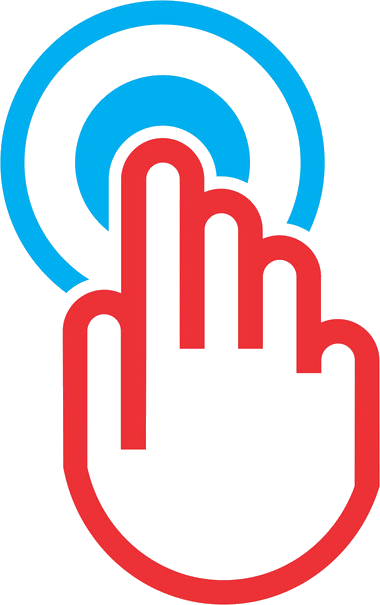
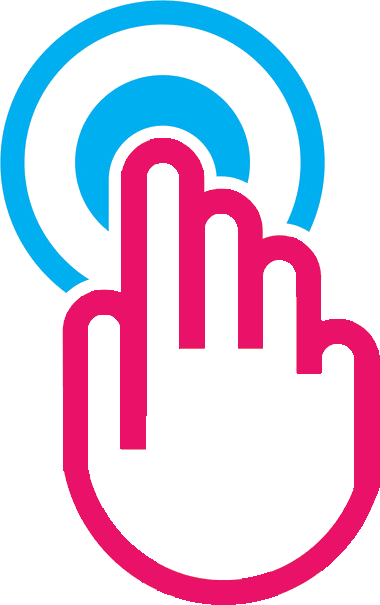
Add files via upload

Changed region(s): [[0.1447, 0.2083, 1.0, 1.0]]

diff --git a/index.html b/index.html
@@ -6,47 +6,44 @@
     <meta name="viewport" content="width=device-width, initial-scale=1.0" />
     <title>start</title>
     <link rel="stylesheet" href="f1.css" />
-    <style></style>
+    <style>
+
+   
+    </style>
   </head>
 
   <body id="body_id">
-    <div class="logo">logo</div>
+    <div >
+      <img class="logo" src="./images/menu logo ocn-01.png" alt="" srcset="" />
     
+      
+    </div>
 
     <div class="heart-shape"></div>
-   
-          <div>
-            <p id="lan-elem" class="language-box">
-              Choose Language <br /><br />
-              اختر اللغة
-            </p>
-          </div>
-     
-    
-          <div class="box">
-            <div id="arab" class="arabbtn">
-              <a
-                style="text-decoration: none"
-                href="./arab version/الصفحةالأؤلى.html"
-                ><p class="mainbtnitem">العربية</p></a
-              >
-            </div>
 
-            <div id="eng" class="engbtn">
-              <a style="text-decoration: none" href="./eng version/home.html"
-                ><p class="mainbtnitem">English</p></a
-              >
-            </div>
-            <div id="start" class="startbtn">
-              <img
-                class="click-image"
-                src="./images/click.png"
-                alt=""
-                srcset=""
-              />
-            </div>
-          </div>
-      
+    <div>
+      <p id="lan-elem" class="language-box">
+        Choose Language <br /><br />
+        اختر اللغة
+      </p>
+    </div>
+
+    <div class="box">
+      <div id="arab" class="arabbtn">
+        <a style="text-decoration: none" href="./arab version/الصفحةالأؤلى.html"
+          ><p class="mainbtnitem">العربية</p></a
+        >
+      </div>
+
+      <div id="eng" class="engbtn">
+        <a style="text-decoration: none" href="./eng version/home.html"
+          ><p class="mainbtnitem">English</p></a
+        >
+      </div>
+      <div id="start" class="startbtn">
+        <img class="click-image" src="./images/click.png" alt="" srcset="" />
+      </div>
+    </div>
 
     <div class="center">
       <div class="heart"></div>

diff --git a/eng version/nursing_services.css b/eng version/nursing_services.css
@@ -7,10 +7,10 @@ body {
   padding-top: 20px;
 } */
 .logo {
-  background-color: wheat;
-  height: 50px;
-  width: 50px;
-  color: black;
+  background-color: transparent;
+  height: 60px;
+  width: 60px;
+  color: transparent;
   text-align: center;
 }
 .language {
@@ -18,10 +18,21 @@ body {
   right: 10px;
   top: 5px;
   background-color: transparent;
-  height: 50px;
+  border-color: #e91268;
+  border-style: dotted;
+  height: 30px;
   width: 50px;
   color: black;
   text-align: center;
+  border-radius: 15px;
+  border-width: 2px;
+}
+.lang_txt_style{
+  margin-top: 5px;
+  color: #e91268;
+  font-size: 15px
+  
+  
 }
 .one {
   position: absolute;
@@ -147,7 +158,8 @@ body {
   height: 100px;
   width: 100px;
   border-style: dotted;
-  border-color: rgb(0, 123, 255);
+  border-width: 2px;
+  border-color: #e91268;
   transition-property: margin-top, top;
   transition-duration: 0.4s;
   box-shadow: 3px 3px 5px 2px rgba(0, 0, 0, 0.347);
@@ -155,44 +167,17 @@ body {
 
 .start_btn_animate {
   top: 10px;
-  margin-top: -100px;
+  margin-top: -120px;
 }
 .txt_show {
   margin-top: 40px;
   font-size: 20px;
-  color: rgb(0, 123, 255);
+  color: #e91268;
   transition-property: margin-top;
   transition-duration: 0.2s;
 }
 
 .txt_animated_show {
-  margin-top: 60px;
-}
-.toggle_eng {
-  background-color: pink;
-  height: 40px;
-  width: 50px;
-  position: absolute;
-  right: 50px;
-  top: 0px;
-  border-top-left-radius: 20px;
-  border-bottom-left-radius: 20px;
-  border-style: dotted;
+  margin-top: 65px;
 }
 
-.toggle_arab {
-  background-color:white;
-  height: 40px;
-  width: 50px;
-  position: absolute;
-  right: 0px;
-  top: 0px;
-  border-top-right-radius: 20px;
-  border-bottom-right-radius: 20px;
-  border-style: dotted;
-  border-color: rgb(0, 123, 255);
-}
-.lang_txt{
-  margin-top: 11px;
-  color: rgb(0, 123, 255);
-}

diff --git a/eng version/style.css b/eng version/style.css
@@ -1,6 +1,3 @@
-
-
-
 .container_box {
   margin-top: 20px;
   background-color: transparent;
@@ -14,25 +11,18 @@
   height: 200px;
   width: 350px;
   background-color: white;
+  border-color: #e91268;
   border-radius: 40px;
+  border-style: dotted;
   box-shadow: 3px 3px 5px 2px rgba(0, 0, 0, 0.347);
-}
+  border-width: 1px;
 
-.medical_equipment_box {
-  display: inline-block;
-  margin-top: 20px;
-  height: 200px;
-  width: 350px;
-  background-color: white;
-  border-radius: 40px;
-  box-shadow: 3px 3px 5px 2px rgba(0, 0, 0, 0.347);
 }
-
 
 .logo {
-  background-color: black;
-  height: 50px;
-  width: 50px;
+  background-color: transparent;
+  height: 60px;
+  width: 60px;
   color: white;
   text-align: center;
 }
@@ -40,7 +30,7 @@
   float: left;
   margin-left: 30px;
   margin-top: 10px;
-  color: rgb(7, 125, 250);
+  color: #e91268;
 }
 img {
   width: 350px;
@@ -56,24 +46,22 @@ img {
   background-color: white;
   margin-right: 20px;
   margin-top: 5px;
-color: white;
+  color: white;
   border-radius: 50px;
-  border-color: rgb(7, 125, 250);
+  border-width: 2px;
+  border-color: #e91268;
   box-shadow: 3px 3px 5px 2px rgba(0, 0, 0, 0.347);
   border-style: dotted;
-
 }
-.expore_txt{
-color: rgb(7, 125, 250);
-margin-top: 3px;
+.expore_txt {
+  color: #e91268;
+  margin-top: 3px;
 }
 
 @media screen and (min-width: 820px) {
-
-  
   .medical_equipment_box {
     background-color: white;
-    
+
     height: 400px;
   }
   .nurse_box {
@@ -85,7 +73,7 @@ margin-top: 3px;
   .medical_equipment_box {
     margin-left: 0px;
   }
-  .nurse_box{
+  .nurse_box {
     margin-top: 20px;
   }
 }

diff --git a/f1.css b/f1.css
@@ -5,19 +5,16 @@ body {
   background-color: white;
 }
 
-.logo{
-  background-color: black;
-  height: 50px;
-  width: 50px;
-  color: white;
-  text-align: center;
 
+.logo {
+  height: 60px; 
+  width: 60px;
 }
 
 
 
 .language-box {
-  color: black;
+  color: #50c8ee;;
   font-size: 18px;
   font-family: "Gill Sans", "Gill Sans MT", Calibri, "Trebuchet MS", sans-serif;
   margin-top: 120px;
@@ -50,7 +47,8 @@ body {
   height: 100px;
   width: 100px;
   border-style: dotted;
-  border-color: red;
+  border-width: 2px;
+  border-color: #e91268;
   transition-property: opacity;
   transition-duration: 0.4s;
   box-shadow: 3px 3px 5px 2px rgba(0, 0, 0, 0.347);
@@ -69,7 +67,7 @@ body {
 .mainbtnitem {
   font-size: 18px;
   padding-top: 20px;
-  color: black;
+  color: #e91268;
 }
 
 .arabbtn {
@@ -77,8 +75,9 @@ body {
   border-style: double;
   text-align: center;
   border-radius: 50px;
-  border-color: black;
+  border-color:#50c8ee;
   border-style: dotted;
+  border-width: 2px;
   background-color: white;
   height: 100px;
   width: 100px;
@@ -91,11 +90,13 @@ body {
   border-style: double;
   text-align: center;
   border-radius: 50px;
+  border-width: 2px;
   background-color: rgb(255, 255, 255);
   height: 100px;
   width: 100px;
   transition-property: margin-left, margin-top, box-shadow;
-  transition-duration: 0.4s;  border-color: black;
+  transition-duration: 0.4s; 
+  border-color: #50c8ee;
   border-style: dotted;
 }
 

diff --git a/eng version/nursing-services.html b/eng version/nursing-services.html
@@ -9,10 +9,11 @@
   </head>
   <body>
     <!-- nav bar -->
-    <div class="logo">logo</div>
+    <div class="logo">
+      <img class="logo" src="../images/menu logo ocn-01.png" alt="" srcset="" />
+    </div>
     <div class="language">
-      <div class="toggle_eng"><p class="lang_txt">Eng</p></div>
-      <div class="toggle_arab"><p class="lang_txt">Arab</p></div>
+      <p class="lang_txt_style">العربي</p>
     </div>
     <!-- items -->
     <div>
@@ -26,7 +27,9 @@
     <div id="start" class="startbtn">
       <p id="txt_show" class="txt_show">Show</p>
     </div>
-    <p style="margin: 0 auto ; text-align: center;margin-top: 10px;">toggle servce</p>
+    <p style="margin: 0 auto; text-align: center; margin-top: 10px">
+      toggle servce
+    </p>
 
     <script src="./eng.js"></script>
   </body>

diff --git a/eng version/home.html b/eng version/home.html
@@ -9,7 +9,8 @@
     <style></style>
   </head>
   <body>
-    <div class="logo">logo</div>
+    <div class="logo">      <img class="logo" src="../images/menu logo ocn-01.png" alt="" srcset="" />
+    </div>
 
     <div class="container_box">
       <!-- nurse box -->
